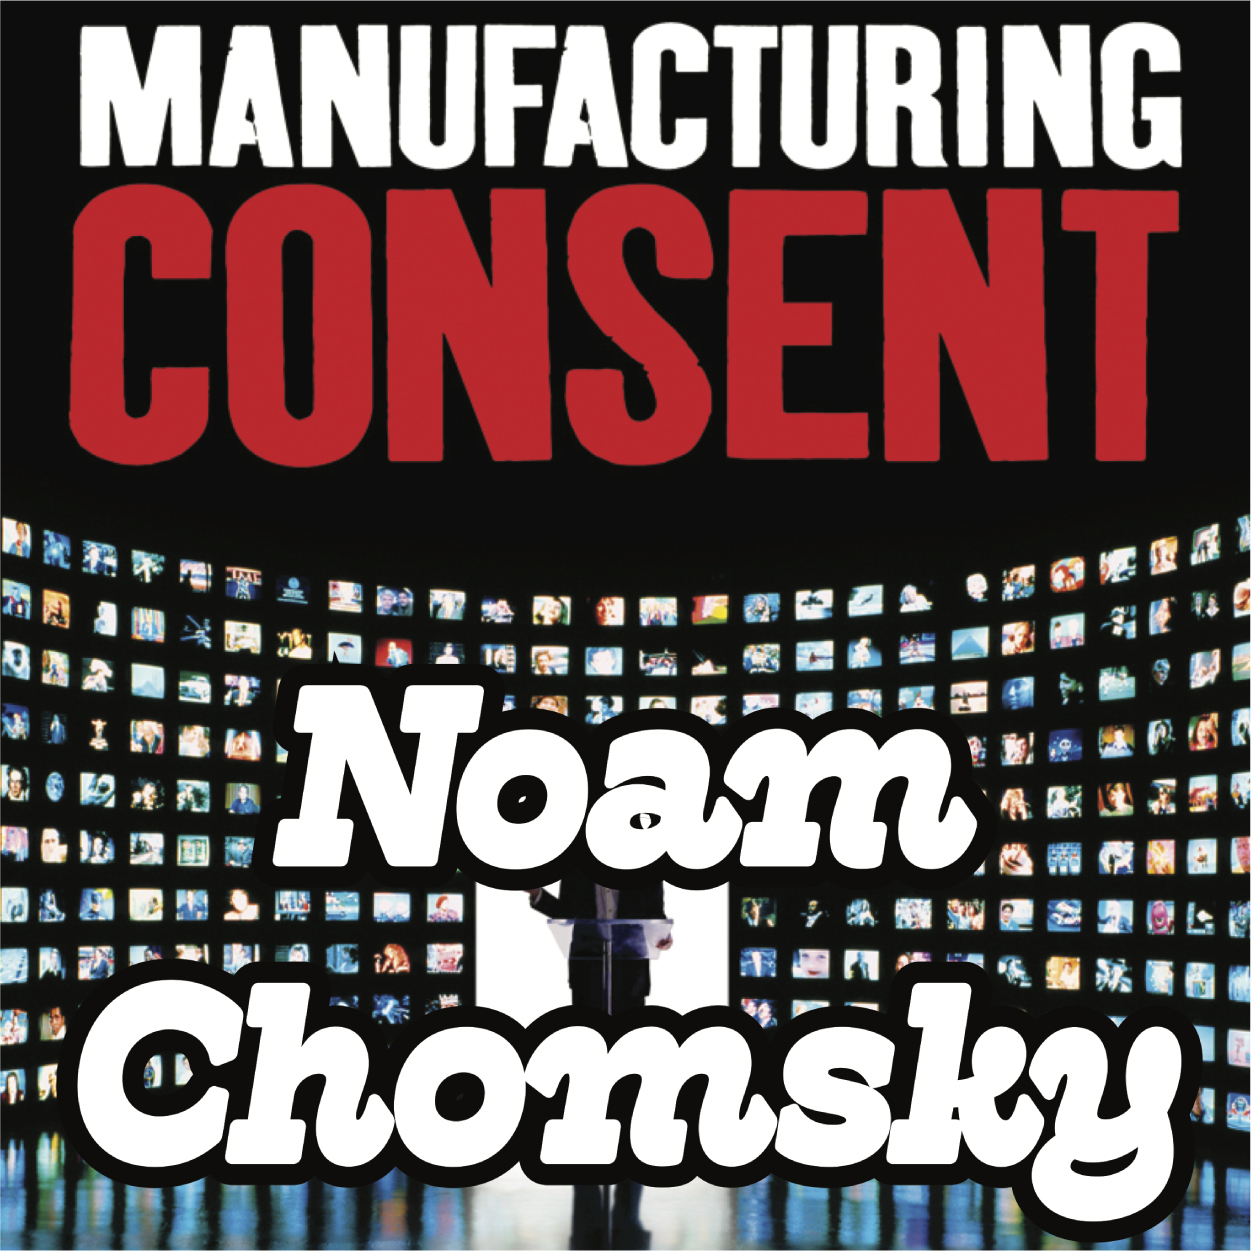
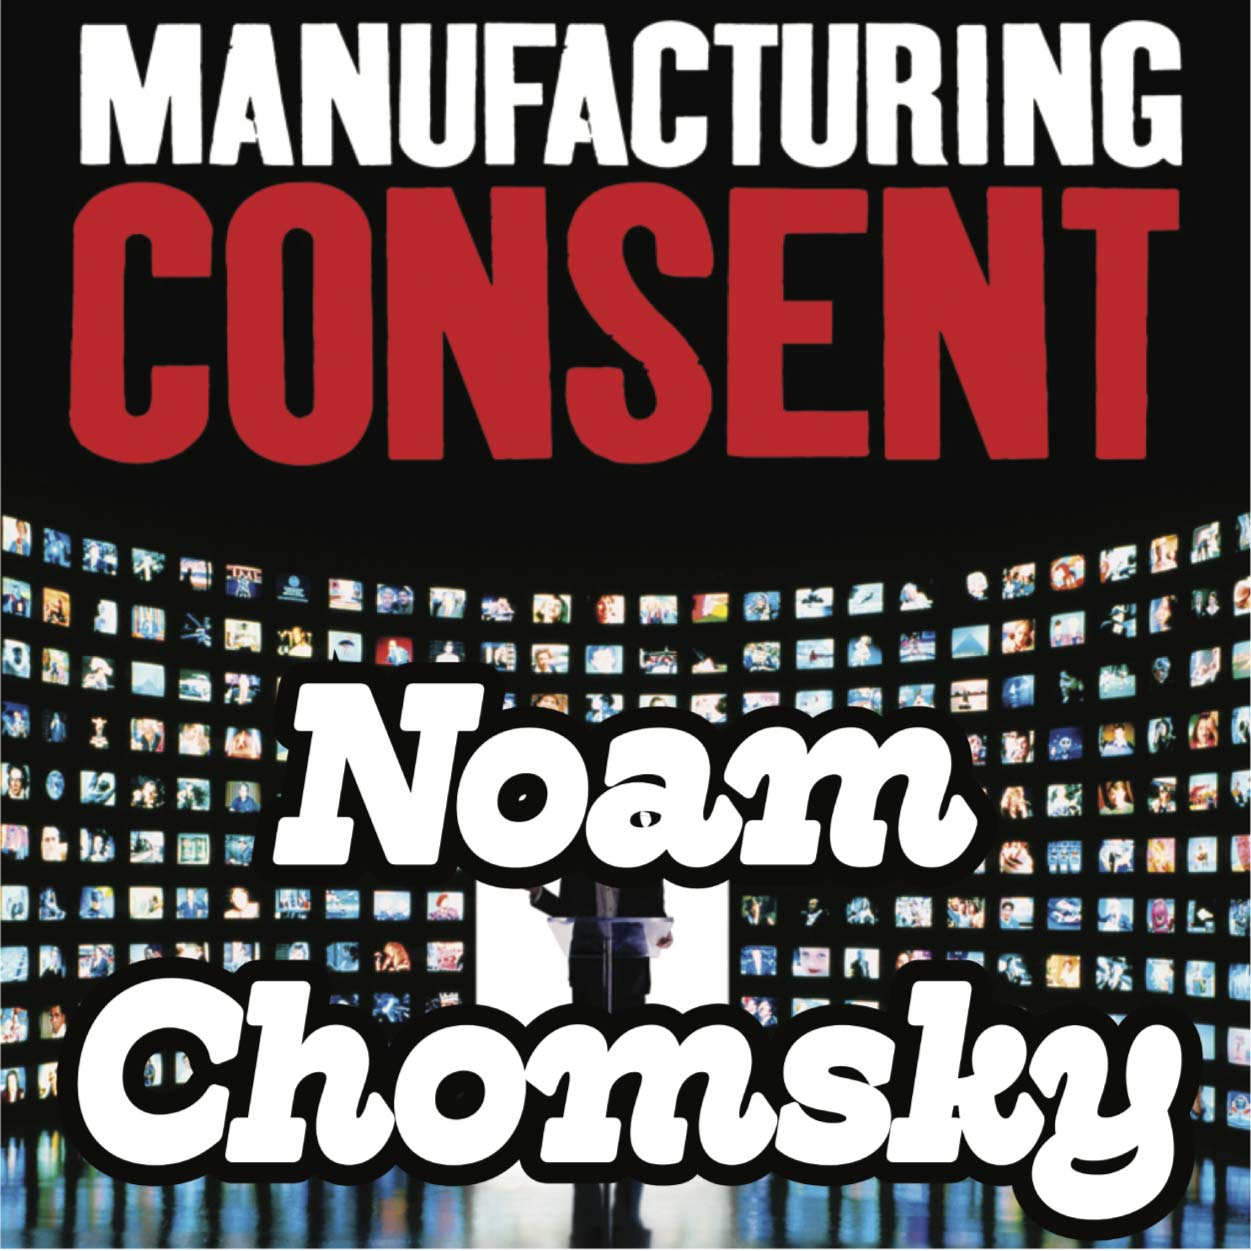
updated images

diff --git a/lib/assets/articles/democracyCapitalism.md b/lib/assets/articles/democracyCapitalism.md
@@ -1,6 +1,6 @@
 ---
 title: "What is Inverted Totalitarianism ?"
-header_image: "managedDemo.png"
+header_image: "managedDemo.jpg"
 published: true
 written_at_date: 10-12-2017
 tags: ["Politics", "Philosophy"]
@@ -51,6 +51,3 @@ I could not have put it any better myself!  Wolin states:
 ``` text
 The American political system was not born a democracy, but born with a bias against democracy. It was constructed by those who were either skeptical about democracy or hostile to it. Democratic advance proved to be slow, uphill, forever incomplete. The republic existed for three - quarters of a century before formal slavery was ended; another hundred years before black Americans were assured of their voting rights. Only in the twentieth century were women guaranteed the vote and trade unions the right to bargain collectively. In none of these instances has victory been complete: women still lack full equality, racism persists, and the destruction of the remnants of trade unions remains a goal of corporate strategies. Far from being innate, democracy in America has gone against the grain, against the very forms by which the political and economic power of the country has been and continues to be ordered.
 ```
-
-
-

diff --git a/lib/assets/articles/neoliberalism.md b/lib/assets/articles/neoliberalism.md
@@ -1,6 +1,6 @@
 ---
 title: "What is neoliberalism ?"
-header_image: "neoliberal.png"
+header_image: "neoliberal.jpg"
 published: true
 written_at_date: 09-12-2017
 tags: ["Politics"]
